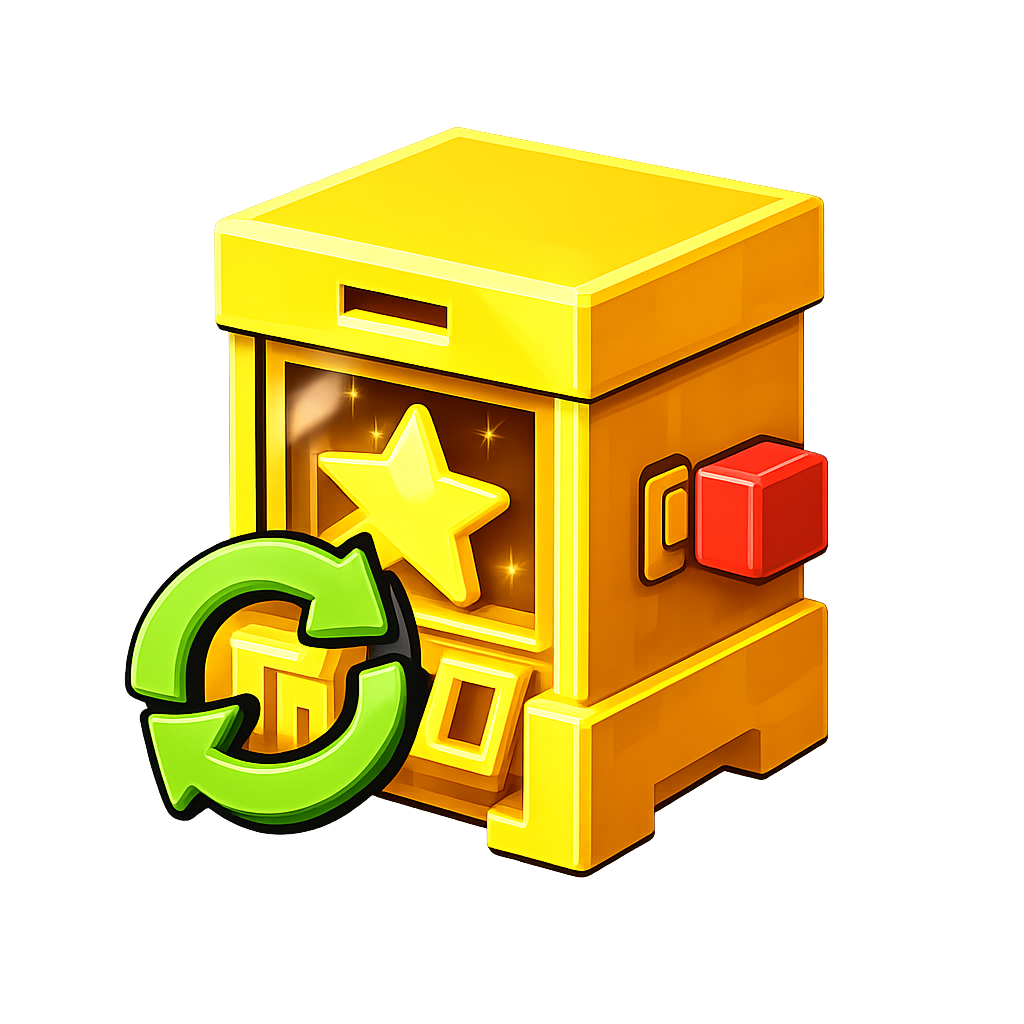
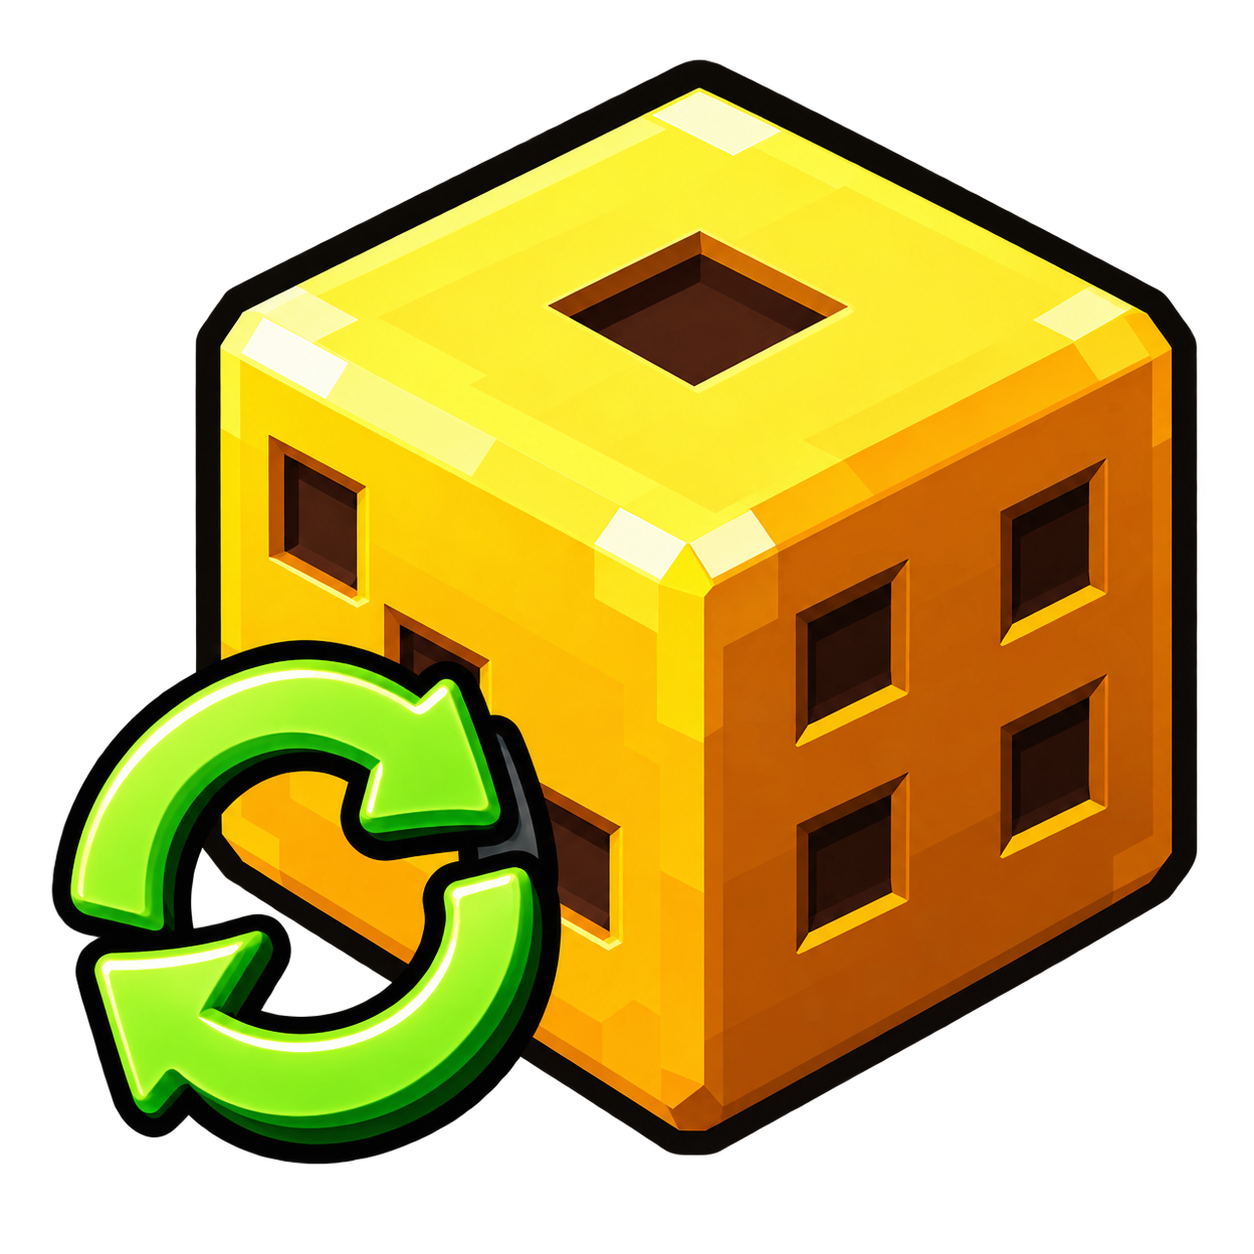
Upgrades tree: Gold/Diamond/Prism Machine nodes use the dice; Gold Rate is the gold die with Rate arrows

diff --git a/assets/upgrade-icons-20261020/prepare.py b/assets/upgrade-icons-20261020/prepare.py
@@ -31,7 +31,7 @@ FILL_HOLES = {"Armor", "MutationLuck", "RainbowMachine"}
 # hairline that floats ~20 px outside its ring.
 OUTLINE = 0.022
 STROKE = {"AutoRebirth", "Armor", "ArmyPower", "BossDamage", "Bounty", "CoinBoost", "Damage", "DiamondMachine",
-          "EggVacuum", "FriendBoost", "GoldMachine", "GoldRate", "GoldRush", "KeepUpgrades", "MutationLuck",
+          "EggVacuum", "FriendBoost", "GoldMachine", "GoldRush", "KeepUpgrades", "MutationLuck",
           "OpenArmy", "OpenTools", "RainbowMachine", "RebirthChickenOdds", "RollSpeed", "VacuumCapacity"}
 CLIP_HAIRLINE = {"AutoRebirth"}
 INK = (16, 23, 18)

diff --git a/docs/team/AUTO_ROLL.md b/docs/team/AUTO_ROLL.md
@@ -85,9 +85,9 @@ Owner decisions, October 20 (Stevin):
 - **Machine counters** (`RollStation`):
   - One row per owned machine over the lever machine, Gold above Diamond above
     Prism, as in the recording: "6 Rolls Left", "98 Rolls Left", "1 Roll Left".
-  - Dice icons are still to come (the image API had no credits on October 20). The
-    rows show the S6 machine icons until then: Gold 75354767460656, Diamond
-    113120386630417, Prism (RainbowMachine art) 90010215769789.
+  - Each row shows its die (`GoldRolls.Icons`). Since October 21 the Upgrades tree's
+    Gold/Diamond/Prism Machine nodes use the same dice, and Gold Rate is the gold die
+    with the green Rate arrows (Stevin: dice, not the machine art).
 - **Special pull** (`RollPresentationController`):
   - Every podium glows in the kind's color (Prism cycles the rainbow).
   - A "Gold roll · 2x Luck" tag shows until just after the reveal.
